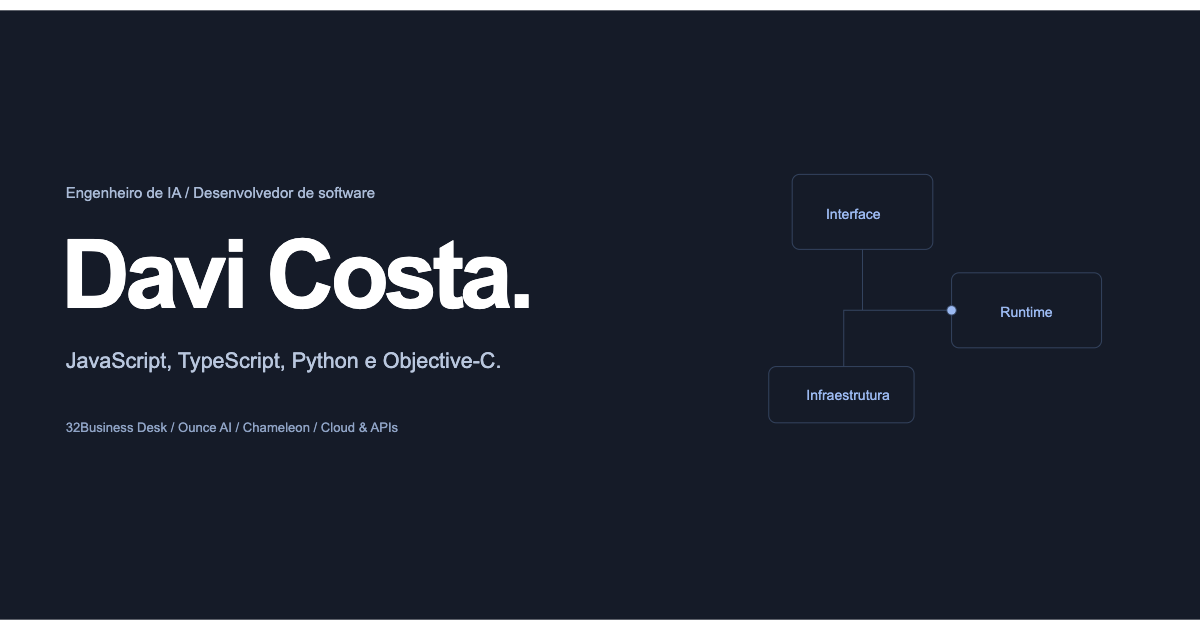
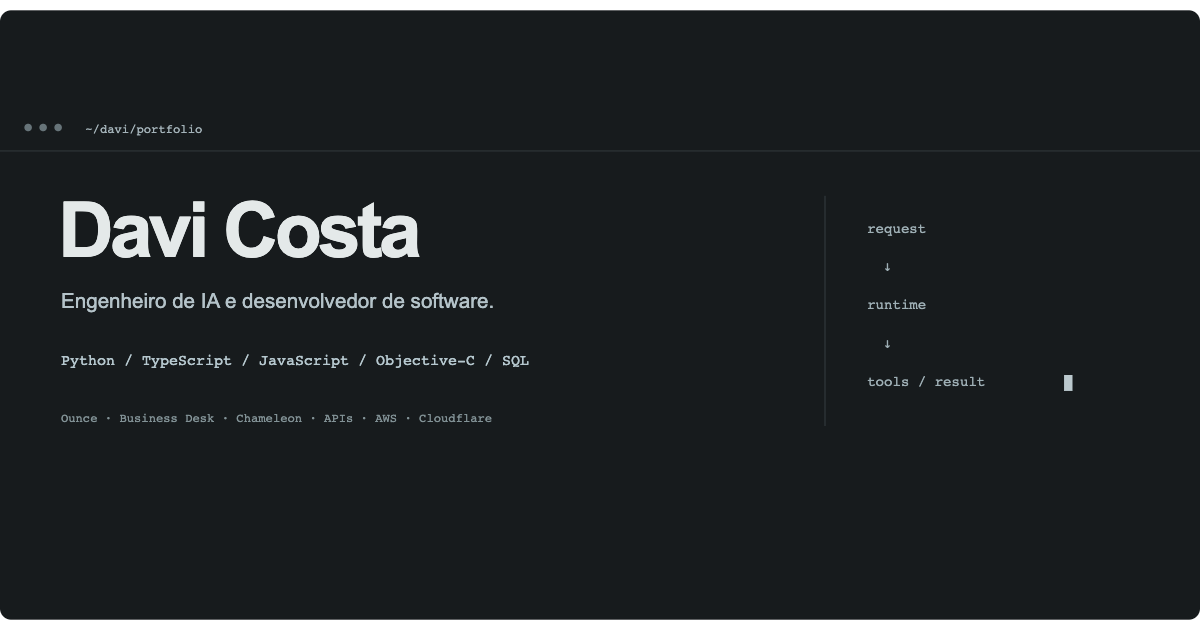
Ajusta portfólio para visual de desenvolvimento e redação direta

diff --git a/docs/index.html b/docs/index.html
@@ -11,15 +11,16 @@
   <meta property="og:type" content="website">
   <meta property="og:locale" content="pt_BR">
   <meta property="og:url" content="https://davi-nr.github.io/davi-nr/">
-  <meta property="og:image" content="https://davi-nr.github.io/davi-nr/assets/social.png?v=2">
+  <meta property="og:image" content="https://davi-nr.github.io/davi-nr/assets/social.png?v=3">
   <meta name="twitter:card" content="summary_large_image">
   <link rel="canonical" href="https://davi-nr.github.io/davi-nr/">
   <link rel="icon" href="assets/favicon.svg" type="image/svg+xml">
   <link rel="preconnect" href="https://fonts.googleapis.com">
   <link rel="preconnect" href="https://fonts.gstatic.com" crossorigin>
   <link href="https://fonts.googleapis.com/css2?family=Archivo:wght@400;500;600;700;800;900&family=IBM+Plex+Mono:wght@400;500&display=swap" rel="stylesheet">
-  <link rel="stylesheet" href="styles.css?v=2">
-  <script type="module" src="app.js?v=2"></script>
+  <link rel="stylesheet" href="styles.css?v=3">
+  <link rel="stylesheet" href="developer.css?v=3">
+  <script type="module" src="app.js?v=3"></script>
 </head>
 <body>
   <a class="skip" href="#main">Pular para o conteúdo</a>
@@ -31,19 +32,19 @@
   <main id="main">
     <section class="hero" id="inicio" aria-labelledby="hero-title">
       <div class="hero-inner wrap">
-        <div class="hero-copy"><p class="intro"><span class="status-dot"></span>Business Desk · Ounce AI · Chameleon</p><h1 id="hero-title">Davi Costa.<br>Engenheiro de IA<br>e desenvolvedor.</h1><p class="hero-description">Desenvolvo o Ounce em Python e assumo a arquitetura, o backend e a infraestrutura dos meus projetos. Também programo sistemas web, APIs e aplicativos nativos.</p><div class="hero-actions"><a class="button primary" href="#projetos">Ver projetos <span aria-hidden="true">↘</span></a><a class="text-link" href="#engenharia">Arquiteturas <span aria-hidden="true">+</span></a></div><div class="hero-context"><span>32Enterprises</span><span>LabFauna</span></div></div>
+        <div class="hero-copy"><p class="intro"><span class="status-dot"></span>Davi Costa / Engenheiro de IA</p><h1 id="hero-title">Eu programo<br>IA, APIs<br>e sistemas.</h1><p class="hero-description">O Ounce é meu projeto de engenharia de IA, escrito em Python. Aqui também estão o Business Desk, o Chameleon e os e-commerces que desenvolvi.</p><div class="hero-actions"><a class="button primary" href="#projetos">Ver projetos <span aria-hidden="true">↘</span></a><a class="text-link" href="#engenharia">Arquiteturas <span aria-hidden="true">+</span></a></div><div class="hero-context"><span>32Enterprises</span><span>LabFauna</span></div></div>
         <div class="workbench">
-          <div class="workbench-top"><span>Na minha mesa de trabalho</span><span class="window-dots" aria-hidden="true"><i></i><i></i><i></i></span></div>
+          <div class="workbench-top"><span>workspace / davi</span><span class="window-dots" aria-hidden="true"><i></i><i></i><i></i></span></div>
           <div class="focus-preview"><img id="focus-image" src="assets/32business.webp" alt="Interface da reformulação do 32Business, em desenvolvimento" width="1440" height="980"><span id="focus-caption">32Business · Reformulação em desenvolvimento</span></div>
           <div class="focus-controls" role="group" aria-label="Prévia de projeto"><button class="active" data-focus="business" aria-pressed="true">32Business</button><button data-focus="ounce" aria-pressed="false">Ounce AI</button><button data-focus="chameleon" aria-pressed="false">Chameleon</button></div>
-          <div class="workbench-footer"><span><span class="tiny-square"></span>Interface, servidor e infraestrutura</span><span aria-hidden="true">{ }</span></div>
+          <div class="workbench-footer"><span><span class="tiny-square"></span>JavaScript · Python · Objective-C</span><span aria-hidden="true">{ }</span></div>
         </div>
       </div>
       <div class="hero-rail wrap"><span>Linguagens usadas nos projetos</span><div><span>JavaScript</span><span>TypeScript</span><span>Python</span><span>Objective-C</span><span>SQL</span><span>HTML</span><span>CSS</span><span>Shell</span></div></div>
     </section>
 
     <section class="projects-section wrap" id="projetos" aria-labelledby="projects-title">
-      <div class="section-heading"><div><p class="section-note">Trabalho selecionado</p><h2 id="projects-title">Projetos que<br>desenvolvi.</h2></div><p>Selecione um projeto para ver o que programei, as tecnologias que usei e as decisões de implementação.</p></div>
+      <div class="section-heading"><div><p class="section-note">Projetos</p><h2 id="projects-title">O que eu<br>programei.</h2></div><p>Cada projeto tem os detalhes da implementação: linguagens, recursos e decisões que tomei no código.</p></div>
       <article class="flagship">
         <div class="flagship-info"><span class="project-domain">Gestão de negócios</span><h3>32Business Desk</h3><p>O sistema de gestão da 32Enterprises: clientes, agenda, catálogo, estoque, vendas e financeiro.</p><div class="tags"><span>JavaScript</span><span>Cloudflare Workers</span><span>D1 / SQL</span></div><button class="button dark" data-project="32enterprises">Conhecer o Business Desk <span aria-hidden="true">↗</span></button><small class="version-note">Imagens da reformulação em andamento.</small></div>
         <div class="flagship-image"><div class="browser-bar"><span class="window-dots" aria-hidden="true"><i></i><i></i><i></i></span><span>32enterprises / reformulação</span><span aria-hidden="true">↗</span></div><img src="assets/32business.webp" width="1440" height="980" loading="lazy" alt="Página da reformulação do 32Business Desk"><span class="image-label">Captura do projeto local</span></div>
@@ -62,9 +63,9 @@
       <div class="ounce-complexity"><h3>A parte complexa do runtime</h3><p>O agente precisa manter o estado entre mensagens, chamadas e resultados. Uma ação recusada bloqueia novas execuções naquela rodada. Comandos têm timeout e encerramento do grupo de processos; o histórico precisa caber no contexto sem separar uma chamada da resposta da ferramenta. Esse controle está no código do Ounce.</p><a class="text-link" href="#engenharia">Ver o fluxo de execução <span aria-hidden="true">↘</span></a></div>
     </section>
 
-    <section class="engineering" id="engenharia" aria-labelledby="engineering-title"><div class="wrap"><div class="section-heading"><div><p class="section-note">Além da interface</p><h2 id="engineering-title">Como integrei<br>as aplicações.</h2></div><p>No Apuração.win, programei a API no Cloudflare e o coletor Python na AWS. No Ounce, integrei o modelo às ferramentas locais. Veja os fluxos abaixo.</p></div><div class="architecture-tabs" role="group" aria-label="Selecionar arquitetura"><button class="active" data-architecture="apuracao" aria-pressed="true">Apuração.win</button><button data-architecture="ounce" aria-pressed="false">Ounce AI</button><button data-architecture="32enterprises" aria-pressed="false">Business Desk</button></div><div class="architecture-canvas" id="architecture-canvas" role="group" aria-label="Fluxo da aplicação"></div><div class="architecture-detail" aria-live="polite"><span id="architecture-step">Selecione uma etapa</span><p id="architecture-description"></p></div><div class="engineering-points"><article><span aria-hidden="true">{ }</span><h3>APIs e validação</h3><p>Implementei validação de entrada, autorização no servidor e tratamento de falhas nas rotas das aplicações.</p></article><article><span aria-hidden="true">⊞</span><h3>Banco e cache</h3><p>SQLite e D1 para persistência. KV e Durable Objects para cache, coordenação e presença.</p></article><article><span aria-hidden="true">⌁</span><h3>Sessões e acessos</h3><p>Sessões, autorização no servidor, isolamento entre contas e segredos fora do navegador.</p></article></div></div></section>
+    <section class="engineering" id="engenharia" aria-labelledby="engineering-title"><div class="wrap"><div class="section-heading"><div><p class="section-note">Arquitetura</p><h2 id="engineering-title">Como os sistemas<br>funcionam.</h2></div><p>No Apuração.win, programei a API no Cloudflare e o coletor Python na AWS. No Ounce, integrei o modelo às ferramentas locais. Veja os fluxos abaixo.</p></div><div class="architecture-tabs" role="group" aria-label="Selecionar arquitetura"><button class="active" data-architecture="apuracao" aria-pressed="true">Apuração.win</button><button data-architecture="ounce" aria-pressed="false">Ounce AI</button><button data-architecture="32enterprises" aria-pressed="false">Business Desk</button></div><div class="architecture-canvas" id="architecture-canvas" role="group" aria-label="Fluxo da aplicação"></div><div class="architecture-detail" aria-live="polite"><span id="architecture-step">Selecione uma etapa</span><p id="architecture-description"></p></div><div class="engineering-points"><article><span aria-hidden="true">{ }</span><h3>APIs e validação</h3><p>Implementei validação de entrada, autorização no servidor e tratamento de falhas nas rotas das aplicações.</p></article><article><span aria-hidden="true">⊞</span><h3>Banco e cache</h3><p>SQLite e D1 para persistência. KV e Durable Objects para cache, coordenação e presença.</p></article><article><span aria-hidden="true">⌁</span><h3>Sessões e acessos</h3><p>Sessões, autorização no servidor, isolamento entre contas e segredos fora do navegador.</p></article></div></div></section>
 
-    <section class="about wrap" id="sobre" aria-labelledby="about-title"><div class="about-heading"><p class="section-note">Davi Costa</p><h2 id="about-title">Como eu<br>trabalho.</h2><p>Atuo como engenheiro de IA e desenvolvedor de software. No Ounce, programo o runtime, o controle de contexto e as ferramentas em Python. Nas aplicações web uso JavaScript e TypeScript; nos aplicativos nativos, Objective-C; na persistência, SQL. Também uso HTML, CSS e Shell.</p><p>Conduzo as decisões de arquitetura, programo as interfaces e o backend, integro os serviços e cuido da publicação. Uso AWS, Cloudflare e ambientes locais no macOS, conforme a necessidade de cada projeto.</p><a class="text-link" href="https://github.com/davi-nr/davi-nr/blob/main/01-controle-de-acesso-e-assinatura.md" target="_blank" rel="noopener noreferrer">Ler estudo sobre autorização em APIs <span aria-hidden="true">↗</span></a></div><div class="toolkit"><h3>Linguagens e tecnologias que usei</h3><div class="stack-row"><h4>Linguagens</h4><p>JavaScript · TypeScript · Python · Objective-C · SQL · HTML · CSS · Shell</p></div><div class="stack-row"><h4>Interfaces</h4><p>React · Next.js / Vinext · Tailwind CSS · SVG · WebKit · AppKit</p></div><div class="stack-row"><h4>Servidor & dados</h4><p>Node.js · Python · REST · SQLite · D1 · Drizzle · KV · Durable Objects</p></div><div class="stack-row"><h4>Infraestrutura</h4><p>AWS EC2 · SSM · Linux · Cloudflare Workers · Static Assets · GitHub</p></div><div class="stack-row"><h4>IA & automação</h4><p>Tool calling · Streaming · Contexto de agentes · MCP · HyperFrames · Remotion</p></div><div class="stack-row"><h4>Ambientes & diagnóstico</h4><p>macOS · Terminal · Git · Playwright · Burp Suite · Nmap · HTTP / DNS / TLS</p></div></div></section>
+    <section class="about wrap" id="sobre" aria-labelledby="about-title"><div class="about-heading"><p class="section-note">Davi Costa</p><h2 id="about-title">Stack e<br>ambiente.</h2><p>Atuo como engenheiro de IA e desenvolvedor de software. No Ounce, programo o runtime, o controle de contexto e as ferramentas em Python. Nas aplicações web uso JavaScript e TypeScript; nos aplicativos nativos, Objective-C; na persistência, SQL. Também uso HTML, CSS e Shell.</p><p>Eu cuido do código, das integrações e do deploy. Uso o Mac para desenvolver, a AWS para os processos que precisam de uma máquina e o Cloudflare para aplicações, APIs e dados.</p><a class="text-link" href="https://github.com/davi-nr/davi-nr/blob/main/01-controle-de-acesso-e-assinatura.md" target="_blank" rel="noopener noreferrer">Ler estudo sobre autorização em APIs <span aria-hidden="true">↗</span></a></div><div class="toolkit"><h3>Linguagens e ferramentas</h3><div class="stack-row"><h4>Linguagens</h4><p>JavaScript · TypeScript · Python · Objective-C · SQL · HTML · CSS · Shell</p></div><div class="stack-row"><h4>Interfaces</h4><p>React · Next.js / Vinext · Tailwind CSS · SVG · WebKit · AppKit</p></div><div class="stack-row"><h4>Servidor & dados</h4><p>Node.js · Python · REST · SQLite · D1 · Drizzle · KV · Durable Objects</p></div><div class="stack-row"><h4>Infraestrutura</h4><p>AWS EC2 · SSM · Linux · Cloudflare Workers · Static Assets · GitHub</p></div><div class="stack-row"><h4>IA & automação</h4><p>Tool calling · Streaming · Contexto de agentes · MCP · HyperFrames · Remotion</p></div><div class="stack-row"><h4>Ambientes & diagnóstico</h4><p>macOS · Terminal · Git · Playwright · Burp Suite · Nmap · HTTP / DNS / TLS</p></div></div></section>
     <section class="contact wrap" id="contato"><div><p>Código, projetos e estudos de desenvolvimento.</p><h2>Meu GitHub.</h2></div><a class="button primary" href="https://github.com/davi-nr" target="_blank" rel="noopener noreferrer">Abrir perfil <span aria-hidden="true">↗</span></a></section>
   </main>
   <footer class="wrap"><a class="footer-name" href="#inicio">Davi Costa<span>Software. IA. Segurança.</span></a><p>Portfólio de projetos · <span id="year">2026</span></p><a href="#inicio">Voltar ao topo ↑</a></footer>

diff --git a/docs/developer.css b/docs/developer.css
@@ -1,0 +1,14 @@
+:root{--paper:#15191b;--ink:#e2e7e8;--muted:#a2afb3;--white:#e2e7e8;--line:#343d41;--blue:#b8ccd5;--blue-light:#bfd1d9;--dark-muted:#9eacb2;--radius:8px}
+body{background-color:var(--paper);background-image:linear-gradient(90deg,#ffffff02 1px,transparent 1px);background-size:90px 90px}
+.site-header{background:#171b1d;border-color:#343d41;height:82px}.signature small{color:#a0b0b6}.site-header nav a{color:#a5b3b8}.site-header nav a:hover{color:#eef4f5}.github-link{border-color:#48565c;border-radius:4px}.github-link:hover{background:#283136}
+.hero{background:transparent}.hero-inner{padding-block:65px;gap:70px}.intro{color:#b9cbd3;font-family:var(--mono);font-size:11px}.hero h1{letter-spacing:-.06em;font-weight:500}.hero-description{color:#a9b8bf;font-size:15px;line-height:1.9}.hero-context{color:#839399;font-family:var(--mono);font-size:10px}
+.button{border-radius:4px}.button.primary{color:#182126;background:#d6e1e5}.button.primary:hover{background:#e8f0f3;transform:none}.button.dark{color:#e3edef;background:#29343a;border:1px solid #53626a}.button.dark:hover{background:#34434b}.text-link{color:#b6cdd7}.button.primary span{font-weight:400}
+.workbench,.workbench:hover{background:#20272b;border-color:#48575e;border-radius:7px;transform:none;box-shadow:10px 12px 0 #0f1315}.workbench:before{content:none}.workbench-top{color:#b2c4cc;font-family:var(--mono);font-size:10px;border-bottom:1px solid #3c484d;height:40px}.focus-preview{margin-top:9px;border-radius:2px}.focus-controls button{border-radius:3px;color:#a4b7c0;font-family:var(--mono)}.focus-controls button.active{background:#303e45;border-color:#6c818c;color:#e4eef2}.workbench-footer{color:#879ba4;font-family:var(--mono);font-size:9px}.tiny-square{background:#a2b9c4}.hero-rail{border-color:#3b484f;color:#9eafb6}.hero-rail>span{color:#c6d3d9}.hero-rail>div{font-family:var(--mono);font-size:10px}
+.projects-section{padding-top:85px}.section-note{font-family:var(--mono);font-size:11px;color:#8fa9b5}.section-heading h2,.about h2{font-weight:500}.section-heading>p{color:#a1b0b7}.flagship{background:#1d2529;border-color:#45535b;border-radius:7px;padding-top:35px}.project-domain{color:#92a8b2;font-family:var(--mono);font-size:10px}.flagship p{color:#a3b4bd}.flagship .tags span,.tags span{color:#b0c0c7;border-color:#4c5f69;border-radius:3px}.flagship-image{border-color:#4f626d;border-radius:5px;box-shadow:none;transform:translate(5px,12px)}.flagship-image .browser-bar{background:#273137;border-color:#45535c;color:#a8bac3}.version-note{color:#a4b6be}.module-tabs{border-color:#3b484f}.module-tabs button{color:#93a8b2}.module-tabs button[aria-selected=true]{color:#e2edef;border-color:#b7cbd5}.module-content>span{color:#adc4cf}.module-content p{color:#a3b4bd}.project-toolbar button{color:#a4b5be;border-radius:3px}.project-toolbar button.active{background:#34444d;color:#e4eff4}.project-art{border-color:#42535d;border-radius:6px}.project-card:hover .project-art{border-color:#859eab;transform:none}.open-project{border-color:#506570;border-radius:4px;color:#c4d9e3}.open-project:hover{background:#2a3942}.project-card>p{color:#a5b6bf}.card-stack{font-family:var(--mono);font-size:9px;color:#9ab4c2}.archive-row small{color:#98aeb9}.archive-row:hover strong{color:#c5dae4}.project-art .art-type{background:#152027eb;color:#c1d3dd;border-color:#6a7e88;border-radius:3px}
+.engineering{background:#1a2328;border-top:1px solid #3e505c;border-bottom:1px solid #3e505c}.engineering .section-note{color:#a8c0cd}.engineering .section-heading>p{color:#a6b8c2}.architecture-tabs button{color:#abc0cc;border-color:#526876;border-radius:3px}.architecture-tabs button.active{background:#c6d9e4;color:#17242c;border-color:#c6d9e4}.architecture-node{background:#25333c;border-color:#536c7c;border-radius:5px}.architecture-node[aria-pressed=true]{background:#344c5b;border-color:#bad2df}.architecture-node small{color:#b4c8d3}.architecture-node .node-icon{color:#bfd5e1}.architecture-detail>span{color:#c0d5e1}.architecture-detail p{color:#aabfc9}.engineering-points article>span{color:#a9c3d2}.engineering-points p{color:#a3b9c5}.architecture-detail{border-color:#415561}.engineering-points h3{color:#d8e5ec}
+.ounce-section{border-color:#3b4d57}.ounce-terminal{border-radius:6px;background:#101719;border:1px solid #41555f}.ounce-stack span{color:#bdd1dc;border-color:#536a77;border-radius:3px;font-family:var(--mono);font-size:9px}.ounce-terminal figcaption{color:#9fb6c1}.ounce-steps article{border-color:#3e535e}.ounce-steps article>span{color:#a3c0d1}.ounce-steps p{color:#a7bdc9}.ounce-complexity{background:#23343f;border:1px solid #4a6574;border-radius:5px}.ounce-complexity p{color:#b3c8d3}.ounce-complexity a{color:#c0dce9}.ounce-complexity h3{color:#e2edf2}
+.about-heading>p:not(.section-note){color:#a6bdc9}.about-heading .text-link{color:#bfd9e6}.stack-row{border-color:#405560}.stack-row h4{color:#b3cbd8;font-family:var(--mono);font-size:11px}.stack-row p{color:#a2b9c6}.contact{border-color:#3e545f}.contact p{color:#9eb8c6}.contact h2{font-size:39px}.footer-name{color:#d7e8f0}.footer-name span,footer{color:#9cb6c4}
+dialog{background:#1b2932;border-color:#5b7889;color:#deedf5;border-radius:8px}.dialog-kind{color:#a3bece}.dialog-body p,.dialog-body li{color:#acc3d1}.project-status{background:#304a5b;color:#d0e5f0;border-radius:3px}.scope-note{border-color:#4b6574}.dialog-close{background:#263e4d;border-color:#6d8b9c;color:#e3f1f8}.dialog-body .button.dark{background:#365263;border-color:#7895a6;color:#edf5fa}
+@media(max-width:800px){.hero-inner{gap:35px}.hero h1{font-size:54px}.site-header nav{gap:16px;font-size:11px}.hero-rail>div{font-size:9px}}
+@media(max-width:600px){.site-header{height:74px}.hero-inner{padding-top:42px;padding-bottom:34px;gap:36px}.hero h1{font-size:clamp(49px,13vw,66px);line-height:1.03}.hero-description{font-size:13px}.intro{font-size:10px}.hero-context{font-size:9px}.workbench{box-shadow:6px 8px 0 #0d1419}.workbench-top{font-size:9px}.workbench-footer{font-size:8px}.flagship{padding-top:26px}.card-stack{font-size:9px}.hero-rail>div{font-size:9px}.projects-section{padding-top:55px}.contact h2{font-size:35px}.section-note{font-size:10px}}
+@media print{body,.hero,.engineering{background:white;color:black}.section-heading>p,.hero-description,.about-heading>p:not(.section-note),.stack-row p,.module-content p{color:#333}.flagship,.ounce-complexity{background:#eee;color:black}.flagship p,.ounce-complexity p,.ounce-steps p{color:#333}}

diff --git a/docs/app.js b/docs/app.js
@@ -1,4 +1,4 @@
-import { projects, modules, architectures } from './data.js?v=2';
+import { projects, modules, architectures } from './data.js?v=3';
 
 const $ = selector => document.querySelector(selector);
 const escape = value => String(value).replace(/[&<>"']/g, c => ({'&':'&amp;','<':'&lt;','>':'&gt;','"':'&quot;',"'":'&#39;'}[c]));

diff --git a/README.md b/README.md
@@ -1,8 +1,8 @@
-<p align="center"><img src="docs/assets/banner.svg?v=2" alt="Davi Costa — Desenvolvimento, Engenharia de IA e Segurança" width="100%"></p>
+<p align="center"><img src="docs/assets/banner.svg?v=3" alt="Davi Costa — Desenvolvimento, Engenharia de IA e Segurança" width="100%"></p>
 
 <p align="center"><a href="https://davi-nr.github.io/davi-nr/"><strong>Explorar meu portfólio</strong></a> &nbsp; / &nbsp; <a href="PROJECTS.md">Detalhes dos projetos</a> &nbsp; / &nbsp; <a href="01-controle-de-acesso-e-assinatura.md">Estudo de segurança</a></p>
 
-Sou **Davi Costa**, engenheiro de IA e desenvolvedor de software. Conduzo as decisões de arquitetura, programo as interfaces e o backend, integro os serviços e cuido da publicação.
+Sou **Davi Costa**, engenheiro de IA e desenvolvedor de software. Estou programando o **Ounce em Python**. Também desenvolvi sistemas web, APIs, um navegador de laboratório e e-commerces. Eu cuido do código, das integrações e do deploy.
 
 Nos projetos abaixo, usei **JavaScript, TypeScript, Python, Objective-C, SQL, HTML, CSS e Shell**. Trabalhei com aplicações web, um aplicativo nativo para macOS, agentes de IA e infraestrutura na AWS e no Cloudflare.
 
